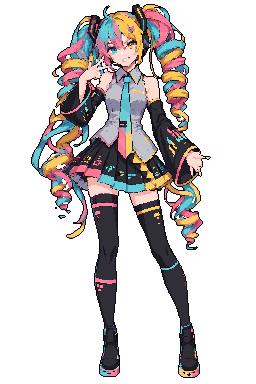
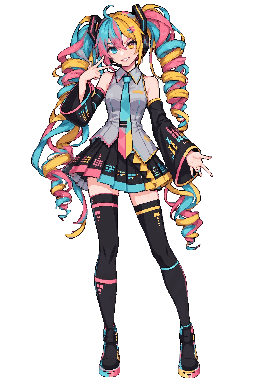
Redo pixel Miku with a faithful, light-touch cleanup
The previous pass (48 colours, forced outline, aggressive mode filtering)
lost the face and shading. Now: transparent background, 96-colour snap of
the original pixels with no pre-filtering, orphan pixels fixed only when
the replacement colour is close, and 1-px silhouette notches/spurs fixed.
No added outline.

Claude-Session: https://claude.ai/code/session_01QUhEzbf67aB1i4MGeTJ5JX

diff --git a/tools/pixelize.py b/tools/pixelize.py
@@ -1,3 +1,11 @@
+"""Minimal pixel-art cleanup: keep the artwork, remove only the blur.
+
+1. Transparent background (white connected to the border + enclosed white gaps).
+2. Toggle (shock) filter: a pixel that is a blend between two neighbouring
+   colours snaps to the nearer one; flat areas and shading are untouched.
+3. Gentle palette snap (many colours) so near-identical shades become flats.
+4. Dejaggy: only true orphans and 1-px silhouette notches/spurs are fixed.
+"""
 import sys
 import numpy as np
 from PIL import Image
@@ -5,7 +13,7 @@ from scipy import ndimage as ndi
 from sklearn.cluster import KMeans
 
 SRC, OUT = sys.argv[1], sys.argv[2]
-NCOL = int(sys.argv[3]) if len(sys.argv) > 3 else 40
+NCOL = int(sys.argv[3]) if len(sys.argv) > 3 else 96
 
 rgb = np.asarray(Image.open(SRC).convert("RGB")).astype(np.float64)
 H, W, _ = rgb.shape
@@ -21,171 +29,60 @@ def shift(a, dy, dx, fill):
     return out
 
 
-# ---------- 1. background -> transparent (flood fill from the border) ----------
-whiteish = (rgb.min(2) > 228) & (rgb.max(2) - rgb.min(2) < 18)
-lab, _ = ndi.label(whiteish)
+# ---------- 1. background ----------
+white = (rgb.min(2) > 238) & (rgb.max(2) - rgb.min(2) < 12)
+lab, n = ndi.label(white)
 border = np.unique(np.concatenate([lab[0], lab[-1], lab[:, 0], lab[:, -1]]))
-bg = np.isin(lab, border[border > 0])
-szw = ndi.sum(whiteish, lab, range(1, lab.max() + 1))
-bg |= np.isin(lab, 1 + np.flatnonzero(szw >= 30))
+sz = ndi.sum(white, lab, range(1, n + 1))
+bg = np.isin(lab, border[border > 0]) | np.isin(lab, 1 + np.flatnonzero(sz >= 40))
+# one ring of white-blended halo pixels next to the background
+halo = ndi.binary_dilation(bg) & ~bg & (rgb.min(2) > 215) & (rgb.max(2) - rgb.min(2) < 30)
+bg |= halo
 fg = ~bg
-# fringe: AA pixels blended toward white that touch the background
-for _ in range(1):
-    near_bg = ndi.binary_dilation(bg, np.ones((3, 3))) & fg
-    fringe = near_bg & (rgb.min(2) > 200) & (rgb.max(2) - rgb.min(2) < 40)
-    fg &= ~fringe
-fg = ndi.binary_opening(fg, np.ones((2, 2))) | (fg & ndi.binary_erosion(fg, np.ones((2, 1))))
-# keep only the main body + anything sizeable
-lab, n = ndi.label(fg, np.ones((3, 3)))
-sizes = ndi.sum(fg, lab, range(1, n + 1))
-fg = np.isin(lab, 1 + np.flatnonzero(sizes >= 12))
 
+img = rgb
 
-# ---------- 2. palette quantization in Lab space ----------
-def to_lab(c):
-    c = c / 255.0
-    c = np.where(c > 0.04045, ((c + 0.055) / 1.055) ** 2.4, c / 12.92)
-    M = np.array([[0.4124, 0.3576, 0.1805], [0.2126, 0.7152, 0.0722], [0.0193, 0.1192, 0.9505]])
-    xyz = c @ M.T / np.array([0.95047, 1.0, 1.08883])
-    f = np.where(xyz > 0.008856, np.cbrt(xyz), 7.787 * xyz + 16 / 116)
-    return np.stack([116 * f[..., 1] - 16, 500 * (f[..., 0] - f[..., 1]), 200 * (f[..., 1] - f[..., 2])], -1)
-
-
-# light pre-smoothing that respects edges (median) to kill JPEG/AA noise
-med = np.stack([ndi.median_filter(rgb[..., i], size=3) for i in range(3)], -1)
-src = rgb
-
-L = to_lab(src)
-pts = L[fg]
-km = KMeans(n_clusters=NCOL, n_init=4, random_state=0).fit(pts[:: max(1, len(pts) // 40000)])
+# ---------- 3. gentle palette snap ----------
+pts = img[fg]
+km = KMeans(n_clusters=NCOL, n_init=2, random_state=0).fit(pts[:: max(1, len(pts) // 30000)])
 idx = np.full((H, W), -1, int)
 idx[fg] = km.predict(pts)
-# palette colour = median of the source pixels in each cluster (keeps it vivid)
-pal = np.array([np.median(rgb[fg][idx[fg] == k], axis=0) if (idx[fg] == k).any() else [0, 0, 0]
-                for k in range(NCOL)])
-pal_lab = to_lab(pal)
+pal = km.cluster_centers_
 
-# merge near-duplicate palette entries
-order = np.argsort(pal_lab[:, 0])
-remap = np.arange(NCOL)
-for i in range(NCOL):
-    for j in range(i):
-        if remap[j] == j and np.linalg.norm(pal_lab[i] - pal_lab[j]) < 4:
-            remap[i] = j
-            break
-idx[fg] = remap[idx[fg]]
-
-
-LINE = np.zeros((H, W), bool)
-LINE[fg] = pal_lab[idx[fg], 0] < 28
-
-# ---------- 3. de-noise: kill orphan pixels / AA speckle (mode filter) ----------
-def mode_pass(idx, strict):
-    out = idx.copy()
-    counts = {}
-    for dy, dx in N8:
-        s = shift(idx, dy, dx, -1)
-        for k in np.unique(s):
-            counts.setdefault(k, np.zeros((H, W), int))
-            counts[k] += (s == k)
-    keys = np.array(list(counts))
-    stack = np.stack([counts[k] for k in keys])
-    best = keys[stack.argmax(0)]
-    bestn = stack.max(0)
-    same = np.zeros((H, W), int)
-    for dy, dx in N8:
-        same += shift(idx, dy, dx, -2) == idx
-    # pixel with <=strict same-coloured neighbours gets the dominant neighbour colour
-    change = fg & ~LINE & (same <= strict) & (best >= 0) & (bestn >= 3)
-    out[change] = best[change]
-    return out
-
+# ---------- 4. dejaggy ----------
+def nbcount(idx, k_arr, offs):
+    return sum((shift(idx, dy, dx, -9) == k_arr).astype(int) for dy, dx in offs)
 
 for _ in range(2):
-    idx = mode_pass(idx, 0)
-# (single-neighbour pass dropped: it ate mouths/eyes)
-idx[~fg] = -1
+    same8 = nbcount(idx, idx, N8)
+    orphan = fg & (same8 == 0)
+    # orphan -> nearest-coloured 4-neighbour (keeps tiny highlights only if they
+    # have any same-coloured neighbour)
+    if orphan.any():
+        best = np.full((H, W), -1); bestd = np.full((H, W), np.inf)
+        for dy, dx in N4:
+            s = shift(idx, dy, dx, -1)
+            ok = s >= 0
+            dd = np.where(ok, np.linalg.norm(pal[np.maximum(s, 0)] - pal[np.maximum(idx, 0)], axis=-1), np.inf)
+            better = ok & (dd < bestd)
+            best[better] = s[better]; bestd[better] = dd[better]
+        m = orphan & (best >= 0) & (bestd < 45)
+        idx[m] = best[m]
 
-# ---------- 4. outline: darkest palette colour on the silhouette edge ----------
-lum = pal_lab[:, 0]
-dark = int(np.argmin(np.where(np.bincount(idx[fg], minlength=NCOL) > 0, lum, 999)))
-edge = fg & ~ndi.binary_erosion(fg, np.array([[0, 1, 0], [1, 1, 1], [0, 1, 0]]), border_value=0)
-# only outline where the pixel isn't already dark (avoid doubling)
-idx[edge & (lum[np.maximum(idx, 0)] > 30)] = dark
-
-
-# ---------- 5. dejaggy ----------
-def is_(a, dy, dx, k):
-    return shift(a, dy, dx, -3) == k
-
-
-# (a) pixel-perfect: remove L-corner "doubles" in 1-px dark lines
-def pixel_perfect(idx, k):
-    m = idx == k
-    for _ in range(3):
-        changed = False
-        for (ay, ax), (by, bx) in [((-1, 0), (0, 1)), ((0, 1), (1, 0)), ((1, 0), (0, -1)), ((0, -1), (-1, 0))]:
-            a = shift(m, ay, ax, False); b = shift(m, by, bx, False)
-            diag = shift(m, ay + by, ax + bx, False)
-            opp1 = shift(m, -ay, -ax, False); opp2 = shift(m, -by, -bx, False)
-            cand = m & a & b & ~diag & ~opp1 & ~opp2
-            if cand.any():
-                ys, xs = np.nonzero(cand)
-                for y, x in zip(ys, xs):
-                    if not m[y, x]:
-                        continue
-                    # replace with most common non-k neighbour
-                    nb = [idx[y + dy, x + dx] for dy, dx in N8
-                          if 0 <= y + dy < H and 0 <= x + dx < W and idx[y + dy, x + dx] != k]
-                    if nb:
-                        idx[y, x] = max(set(nb), key=nb.count)
-                        m[y, x] = False
-                        changed = True
-        if not changed:
-            break
-    return idx
-
-
-idx = pixel_perfect(idx, dark)
-
-# (b) silhouette: fill 1-px notches, shave 1-px spurs (on the alpha mask)
+# silhouette: 1-px notches filled, 1-px spurs removed
 for _ in range(2):
     solid = idx >= 0
     n4 = sum(shift(solid, dy, dx, False).astype(int) for dy, dx in N4)
-    notch = ~solid & (n4 >= 3)
     spur = solid & (n4 <= 1)
     idx[spur] = -1
-    if notch.any():
-        idx[notch] = dark
+    notch = ~solid & (n4 >= 3)
+    for y, x in zip(*np.nonzero(notch)):
+        c = [idx[y + dy, x + dx] for dy, dx in N4 if 0 <= y + dy < H and 0 <= x + dx < W and idx[y + dy, x + dx] >= 0]
+        idx[y, x] = max(set(c), key=c.count)
 
-# (c) stair-step cleanup on colour boundaries: a pixel whose 4-neighbours agree
-#     on one other colour on 3 sides is a jag -> take that colour
-for _ in range(1):
-    cnt = {}
-    for dy, dx in N4:
-        s = shift(idx, dy, dx, -9)
-        for k in np.unique(s):
-            if k < -1:
-                continue
-            cnt.setdefault(k, np.zeros((H, W), int))
-            cnt[k] += s == k
-    keys = np.array(list(cnt)); st = np.stack([cnt[k] for k in keys])
-    best = keys[st.argmax(0)]
-    diag_same = sum((shift(idx, dy, dx, -9) == idx).astype(int) for dy, dx in [(-1,-1),(-1,1),(1,-1),(1,1)])
-    jag = ~LINE & (diag_same == 0) & (st.max(0) >= 3) & (best != idx) & (idx >= 0) & (best >= 0)
-    idx[jag] = best[jag]
-
-# re-establish a clean outline after cleanup
-solid = idx >= 0
-edge = solid & ~ndi.binary_erosion(solid, np.array([[0, 1, 0], [1, 1, 1], [0, 1, 0]]), border_value=0)
-idx[edge] = dark
-idx = pixel_perfect(idx, dark)
-
-# ---------- write ----------
 out = np.zeros((H, W, 4), np.uint8)
 m = idx >= 0
-out[m, :3] = np.clip(pal[idx[m]], 0, 255).astype(np.uint8)
+out[m, :3] = np.clip(pal[idx[m]], 0, 255).round().astype(np.uint8)
 out[m, 3] = 255
 Image.fromarray(out, "RGBA").save(OUT)
-used = len(np.unique(out[m][:, :3], axis=0))
-print("size", W, H, "colours", used)
+print("colours", len(np.unique(out[m][:, :3], axis=0)))
